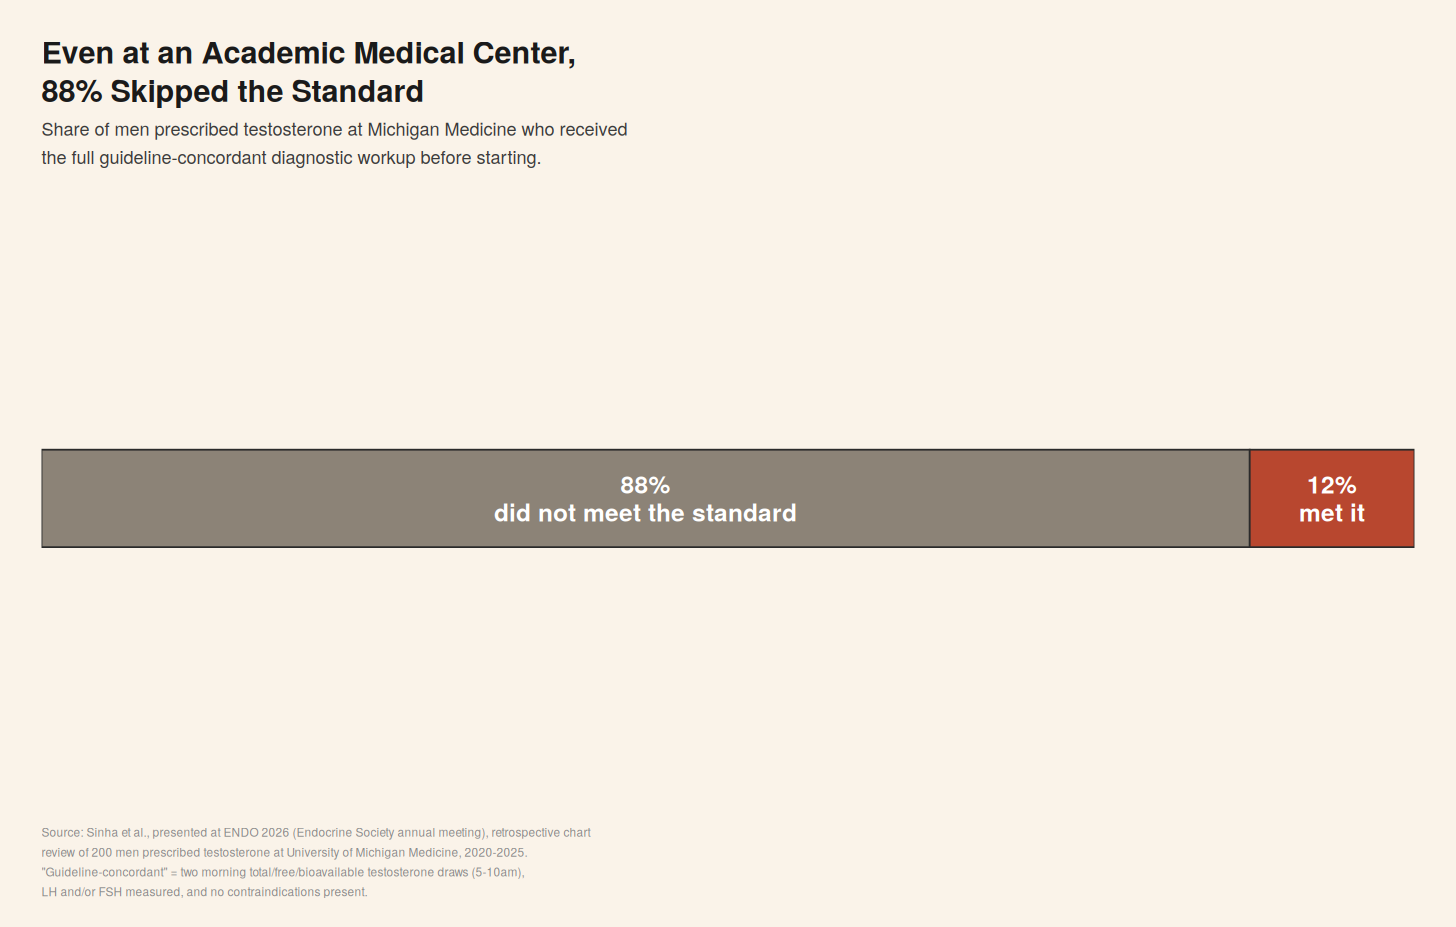
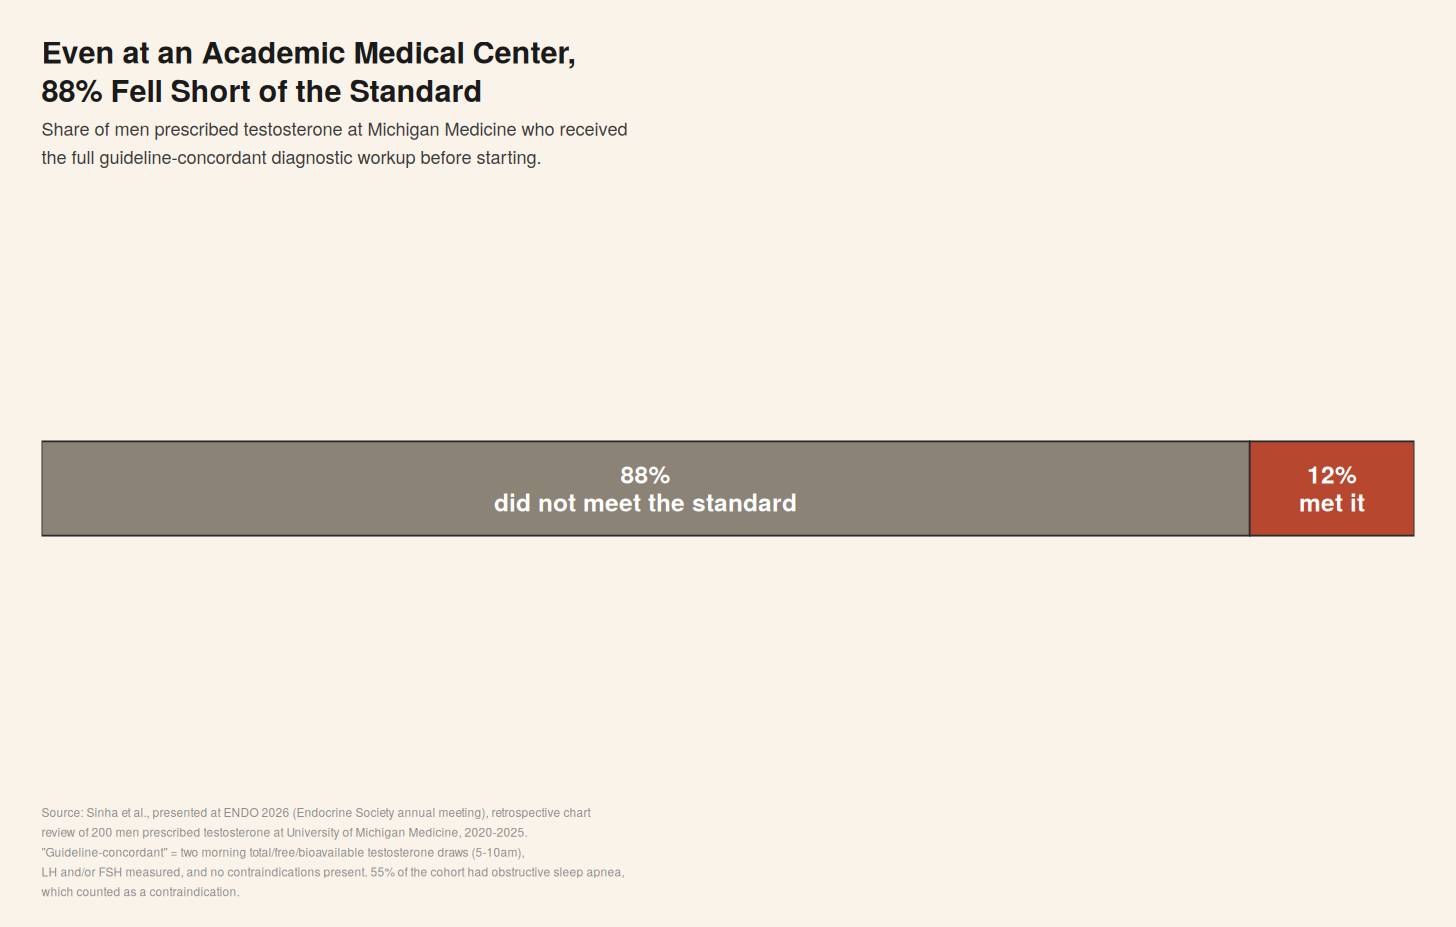
Chart 1 retitle and sleep apnea note; remove unverified p-value from chart 2; README notes
Claude-Session: https://claude.ai/code/session_01Ur6iWX2AEPVe6FpkX26P53

Changed region(s): [[0.0309, 0.4531, 0.989, 0.6041], [0.0309, 0.8759, 0.4327, 0.9666], [0.0618, 0.0906, 0.34, 0.1208]]

diff --git a/README.md b/README.md
@@ -10,9 +10,9 @@ Data and R code behind the charts in ["Measure of a Man"](https://notesfromtheab
 
 ## The charts
 
-**`chart1_headline.png`** — Even at an academic medical center, 88% of men started on testosterone at University of Michigan Medicine (2020-2025) did not get the full guideline-concordant workup: two morning draws, LH and/or FSH, no contraindications. Source: Sinha et al., presented at ENDO 2026 (Endocrine Society annual meeting), retrospective chart review of 200 men.
+**`chart1_headline.png`** — Even at an academic medical center, 88% of men started on testosterone at University of Michigan Medicine (2020-2025) did not meet the full guideline-concordant standard: two morning draws, LH and/or FSH, no contraindications. The 88% includes men with contraindications; 55% of the cohort had obstructive sleep apnea, and published coverage does not split the 88% into missing labs versus contraindications. Source: Sinha et al., presented at ENDO 2026 (Endocrine Society annual meeting), retrospective chart review of 200 men.
 
-**`chart2_specialty.png`** — Breaks the failure down by specialty, looking at a narrower question: did anyone even order the second confirmatory draw. Urology skipped it least often (45.5%) and HIV medicine most often (88.0%), with endocrinology at 58.1% and primary care at 77.5% (p = .012 across specialties). Source: Khandwala YS, Raheem OA, Ali MA, Hsieh TC. "Variation in Practice Pattern of Male Hypogonadism: A Comparative Analysis of Primary Care, Urology, Endocrinology, and HIV Specialists." *Am J Mens Health.* 2018. DOI: [10.1177/1557988317743152](https://doi.org/10.1177/1557988317743152).
+**`chart2_specialty.png`** — Breaks the failure down by specialty, looking at a narrower question: did anyone even order the second confirmatory draw. Urology skipped it least often (45.5%) and HIV medicine most often (88.0%), with endocrinology at 58.1% and primary care at 77.5%. The paper reports the specialty difference as p < .001 in the abstract and p = .012 in the results text, so the chart leaves the p-value off. Source: Khandwala YS, Raheem OA, Ali MA, Hsieh TC. "Variation in Practice Pattern of Male Hypogonadism: A Comparative Analysis of Primary Care, Urology, Endocrinology, and HIV Specialists." *Am J Mens Health.* 2018. DOI: [10.1177/1557988317743152](https://doi.org/10.1177/1557988317743152).
 
 **`chart3_erythrocytosis.png`** — Share of men whose hematocrit rose above 50% over three years of testosterone therapy, by formulation: injections 66.7% (38 of 57), pellets 35.1% (26 of 74), gel 12.8% (6 of 47). Source: Pastuszak AW, Gomez LP, Scovell JM, Khera M, Lamb DJ, Lipshultz LI. "Comparison of the Effects of Testosterone Gels, Injections, and Pellets on Serum Hormones, Erythrocytosis, Lipids, and Prostate-Specific Antigen." *Sex Med.* 2015. DOI: [10.1002/sm2.76](https://doi.org/10.1002/sm2.76). Small groups from a single study.
 
